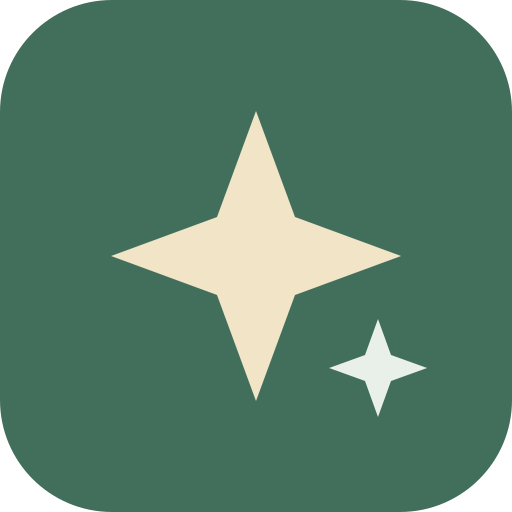
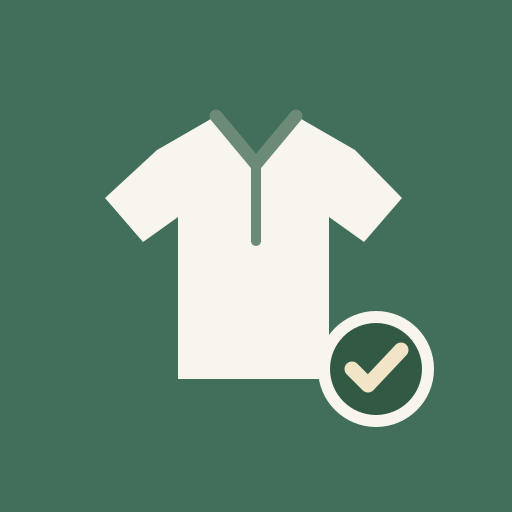
Rebrand app as Roupa em Dia

diff --git a/app/dashboard-client.tsx b/app/dashboard-client.tsx
@@ -2,6 +2,7 @@
 
 import { useMemo, useState, useTransition } from "react";
 import { useRouter } from "next/navigation";
+import Image from "next/image";
 import { signOutAction } from "@/app/auth/actions";
 import { createDelivery, deleteDelivery, updateDelivery } from "@/app/deliveries/actions";
 import { switchPlan } from "@/app/plans/actions";
@@ -225,9 +226,9 @@ export function DashboardClient({ data }: { data: DashboardData }) {
   return (
     <main className="app-shell" data-mobile-tab={mobileTab} data-flow={showForm || showPlanPicker || showPlanHistory || selectedDropoff ? "true" : "false"}>
       <aside className="sidebar">
-        <a href="#top" className="brand" aria-label="Fio a Fio, início">
-          <span className="brand-mark"><Icon name="sparkle" size={20} /></span>
-          <span>fio<span className="brand-light">a</span>fio</span>
+        <a href="#top" className="brand" aria-label="Roupa em Dia, por Engomadoria Gest, início">
+          <Image className="brand-mark" src="/icon-192.png" alt="" width={32} height={32} priority />
+          <span className="brand-copy"><span className="brand-title">Roupa em Dia</span><small className="brand-provider">por Engomadoria Gest</small></span>
         </a>
         <div className="workspace-label">A MINHA CONTA</div>
         <nav className="main-nav" aria-label="Navegação principal">
@@ -238,7 +239,7 @@ export function DashboardClient({ data }: { data: DashboardData }) {
           ))}
         </nav>
         <div className="sidebar-bottom">
-          <div className="help-card"><span className="help-icon"><Icon name="sparkle" size={17} /></span><strong>Um cuidado a cada peça.</strong><p>A sua roupa, tratada com todo o carinho.</p><a href="mailto:ola@fioafio.pt">Precisa de ajuda? <Icon name="arrow" size={13} /></a></div>
+          <div className="help-card"><span className="help-icon"><Icon name="sparkle" size={17} /></span><strong>Engomadoria Gest</strong><p>A sua roupa, tratada com todo o carinho.</p><a href="mailto:ola@fioafio.pt">Precisa de ajuda? <Icon name="arrow" size={13} /></a></div>
           <form action={signOutAction} className="profile-form"><button className="profile-button" type="submit"><span className="avatar">{initials}</span><span className="profile-copy"><b>{data.customerName}</b><small>{data.email}</small></span><span className="signout-label">Sair</span></button></form>
         </div>
       </aside>
@@ -298,7 +299,7 @@ export function DashboardClient({ data }: { data: DashboardData }) {
             <form action={signOutAction}><button className="secondary-button" type="submit">Terminar sessão</button></form>
           </section>
 
-          <footer className="page-footer"><span>Feito com cuidado, em Lisboa <span className="footer-heart">♥</span></span><span>© 2026 Fio a Fio</span></footer>
+          <footer className="page-footer"><span>Feito com cuidado, em Lisboa <span className="footer-heart">♥</span> · Engomadoria Gest</span><span>© 2026 Roupa em Dia</span></footer>
         </div>
       </section>
 

diff --git a/app/globals.css b/app/globals.css
@@ -27,9 +27,11 @@ button:focus-visible, select:focus-visible, a:focus-visible { outline: 3px solid
 .app-shell { min-height: 100vh; }
 #top, #package, #statistics { scroll-margin-top: 80px; }
 .sidebar { position: fixed; inset: 0 auto 0 0; z-index: 5; display: flex; flex-direction: column; width: 246px; padding: 29px 17px 17px; border-right: 1px solid #e9ece9; background: #fff; }
-.brand { display: flex; align-items: center; gap: 10px; padding: 0 12px; color: #2c4438; font-size: 21px; font-weight: 700; letter-spacing: -1px; text-decoration: none; }
-.brand-light { color: #89968e; font-weight: 400; }
-.brand-mark { display: grid; width: 32px; height: 32px; place-items: center; border-radius: 11px; background: #e8f0e9; color: #47735c; }
+.brand { display: flex; align-items: center; gap: 10px; padding: 0 12px; color: #2c4438; text-decoration: none; }
+.brand-mark { display: block; width: 32px; height: 32px; flex: 0 0 32px; border-radius: 9px; }
+.brand-copy { display: grid; gap: 2px; }
+.brand-title { color: #2c4438; font-size: 17px; font-weight: 700; letter-spacing: -.45px; line-height: 1.05; white-space: nowrap; }
+.brand-provider { color: #89968e; font-size: 9px; font-weight: 500; letter-spacing: .05px; line-height: 1.2; }
 .workspace-label { margin: 48px 12px 13px; color: #a1a9a5; font-size: 9px; font-weight: 700; letter-spacing: 1.4px; }
 .main-nav { display: grid; gap: 5px; }
 .nav-link { position: relative; display: flex; align-items: center; gap: 12px; min-height: 43px; padding: 0 12px; border: 0; border-radius: 8px; background: transparent; color: #7b8580; text-align: left; text-decoration: none; cursor: pointer; }

diff --git a/components/auth-form.tsx b/components/auth-form.tsx
@@ -1,6 +1,7 @@
 "use client";
 
 import Link from "next/link";
+import Image from "next/image";
 import { useActionState } from "react";
 import {
   requestPasswordResetAction,
@@ -34,9 +35,9 @@ export function AuthForm({ mode }: { mode: AuthMode }) {
 
   return (
     <main className="auth-shell">
-      <Link href="/" className="brand auth-brand" aria-label="Fio a Fio, início">
-        <span className="brand-mark"><span aria-hidden="true">✳</span></span>
-        <span>fio<span className="brand-light">a</span>fio</span>
+      <Link href="/" className="brand auth-brand" aria-label="Roupa em Dia, por Engomadoria Gest, início">
+        <Image className="brand-mark" src="/icon-192.png" alt="" width={32} height={32} priority />
+        <span className="brand-copy"><span className="brand-title">Roupa em Dia</span><small className="brand-provider">por Engomadoria Gest</small></span>
       </Link>
       <section className="auth-card">
         <p className="eyebrow">A SUA CONTA, AO SEU RITMO</p>

diff --git a/components/pwa-install.tsx b/components/pwa-install.tsx
@@ -60,7 +60,7 @@ export function PwaInstall() {
     <section className="pwa-install-card" aria-labelledby="pwa-install-title">
       <div className="pwa-install-mark" aria-hidden="true"><span>✳</span></div>
       <div className="pwa-install-content">
-        <h3 id="pwa-install-title">Leve a Fio a Fio consigo</h3>
+        <h3 id="pwa-install-title">Leve a Roupa em Dia consigo</h3>
         <p>Adicione a aplicação ao ecrã principal para a abrir numa janela própria.</p>
         {installPrompt && <button className="pwa-install-button" type="button" onClick={installApp}>Instalar aplicação</button>}
         <p className="pwa-install-help">iPhone ou iPad: no Safari, toque em Partilhar e escolha “Adicionar ao ecrã principal”. Android: use “Instalar aplicação” ou a opção de instalação no menu do navegador.</p>

diff --git a/app/layout.tsx b/app/layout.tsx
@@ -2,12 +2,12 @@ import type { Metadata, Viewport } from "next";
 import "./globals.css";
 
 export const metadata: Metadata = {
-  title: "Fio a Fio — O seu cuidado, ao seu ritmo",
+  title: "Roupa em Dia — O cuidado da sua roupa, ao seu ritmo",
   description: "Acompanhe o seu pacote de engomadoria, registe entregas e veja as suas estatísticas.",
-  applicationName: "Fio a Fio",
+  applicationName: "Roupa em Dia",
   appleWebApp: {
     capable: true,
-    title: "Fio a Fio",
+    title: "Roupa em Dia",
     statusBarStyle: "default",
   },
   icons: {

diff --git a/app/manifest.ts b/app/manifest.ts
@@ -3,8 +3,8 @@ import type { MetadataRoute } from "next";
 export default function manifest(): MetadataRoute.Manifest {
   return {
     id: "/",
-    name: "Fio a Fio — O seu cuidado, ao seu ritmo",
-    short_name: "Fio a Fio",
+    name: "Roupa em Dia — O cuidado da sua roupa, ao seu ritmo",
+    short_name: "Roupa em Dia",
     description: "Acompanhe o seu pacote de engomadoria e registe entregas.",
     start_url: "/",
     scope: "/",

diff --git a/AGENTS.md b/AGENTS.md
@@ -24,5 +24,6 @@ This block is written and re-added by `next dev` — verify at `node_modules/nex
 - Customers can edit or delete their recorded deliveries.
 - The customer experience must work well in desktop web browsers and on mobile devices. Mobile uses distinct tab-navigated screens, readable text sizes, and full-screen flows instead of popup dialogs.
 - The mobile web app is installable as a standalone PWA with platform-specific home-screen installation guidance; data and actions require an internet connection.
+- The customer-facing app brand is Roupa em Dia, endorsed by Engomadoria Gest. Use the sage and cream palette with a folded-clothes-and-check icon across browser and PWA assets.
 - Database migrations must account for existing data and be safe to re-run against an initialized schema: use idempotent DDL, explicit backfills or deterministic upserts when replacing catalog/configuration rows, preserve customer history by default, and never assume production tables are empty.
 - These requirements are an initial project description and are expected to evolve. Update this section as requirements change, and follow the latest user-provided requirements.

diff --git a/README.md b/README.md
@@ -1,6 +1,6 @@
-# Fio a Fio
+# Roupa em Dia
 
-Customer dashboard for managing an ironing package. Customer accounts, package usage, and delivery history are stored in Supabase PostgreSQL.
+Customer dashboard by Engomadoria Gest for managing an ironing package. Customer accounts, package usage, and delivery history are stored in Supabase PostgreSQL.
 
 ## Local setup
 
